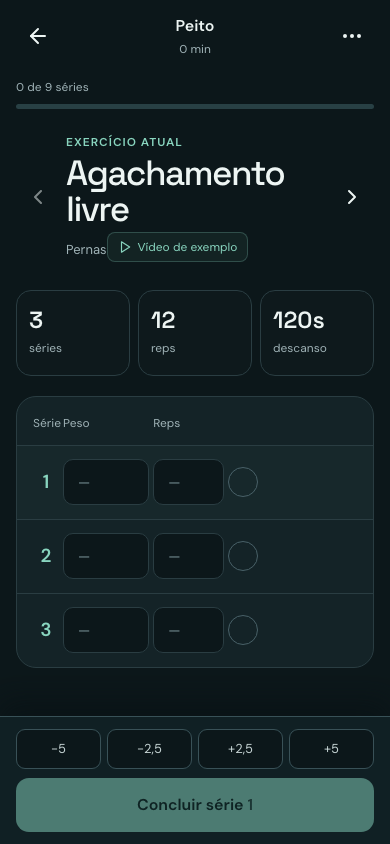
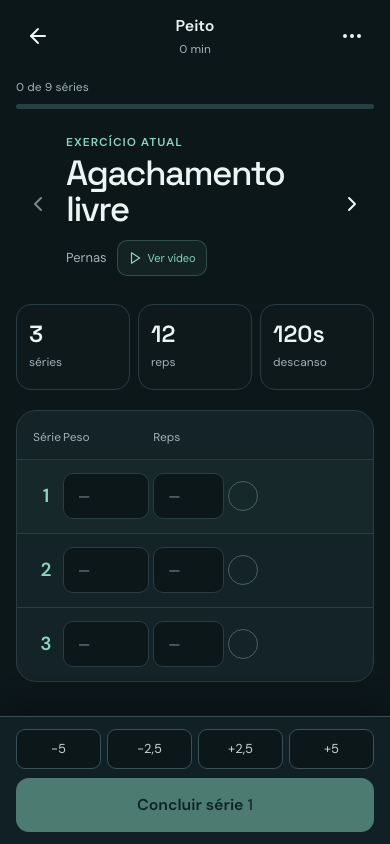
feat: enhance workout session UI and accessibility
- Updated the WorkoutSessionScreen to include a new exercise title block and improved layout for exercise metadata.
- Added CSS styles for better alignment and spacing of exercise elements.
- Implemented a visual accessibility test to ensure no overlap between exercise metadata elements.

diff --git a/tests/visual-accessibility.spec.js b/tests/visual-accessibility.spec.js
@@ -93,6 +93,14 @@ test("modo treino mantém acessibilidade em 390px", async ({ page }) => {
     .click();
   await page.getByRole("button", { name: "Iniciar treino" }).click();
   await expect(page.getByRole("main", { name: "Modo treino" })).toBeVisible();
+  const meta = page.locator(".exercise-meta");
+  const metaChildren = meta.locator(":scope > *");
+  const overlaps = await metaChildren.evaluateAll(([muscle, video]) => {
+    const a = muscle.getBoundingClientRect();
+    const b = video.getBoundingClientRect();
+    return a.left < b.right && a.right > b.left && a.top < b.bottom && a.bottom > b.top;
+  });
+  expect(overlaps).toBe(false);
   await expect(
     await page.evaluate(
       () => document.documentElement.scrollWidth <= window.innerWidth + 1,

diff --git a/src/components/index.css b/src/components/index.css
@@ -1375,10 +1375,33 @@
 .exercise-nav {
   text-align: left;
 }
+.exercise-title-block {
+  min-width: 0;
+}
 .exercise-nav h1 {
   font-size: clamp(30px, 9vw, 44px);
   line-height: 1.04;
   letter-spacing: -0.045em;
+  overflow-wrap: anywhere;
+}
+.exercise-meta {
+  display: flex;
+  align-items: center;
+  flex-wrap: wrap;
+  gap: 8px 10px;
+  margin-top: 12px;
+}
+.exercise-meta > span {
+  display: inline-flex;
+  align-items: center;
+  min-height: 32px;
+  color: var(--muted);
+  font-size: 13px;
+}
+.exercise-meta .exercise-video-link-compact {
+  min-height: 36px;
+  padding: 7px 10px;
+  border-radius: 10px;
 }
 .exercise-eyebrow {
   color: var(--accent) !important;

diff --git a/src/screens/WorkoutSessionScreen.jsx b/src/screens/WorkoutSessionScreen.jsx
@@ -343,11 +343,13 @@ export default function WorkoutSessionScreen({
           >
             <ChevronLeft />
           </button>
-          <div>
+          <div className="exercise-title-block">
             <p className="exercise-eyebrow">Exercício atual</p>
             <h1>{exercise.name}</h1>
-            <span>{exercise.muscleGroup}</span>
-            <ExerciseVideoLink exerciseName={exercise.name} compact />
+            <div className="exercise-meta">
+              <span>{exercise.muscleGroup}</span>
+              <ExerciseVideoLink exerciseName={exercise.name} compact />
+            </div>
           </div>
           <button
             type="button"
